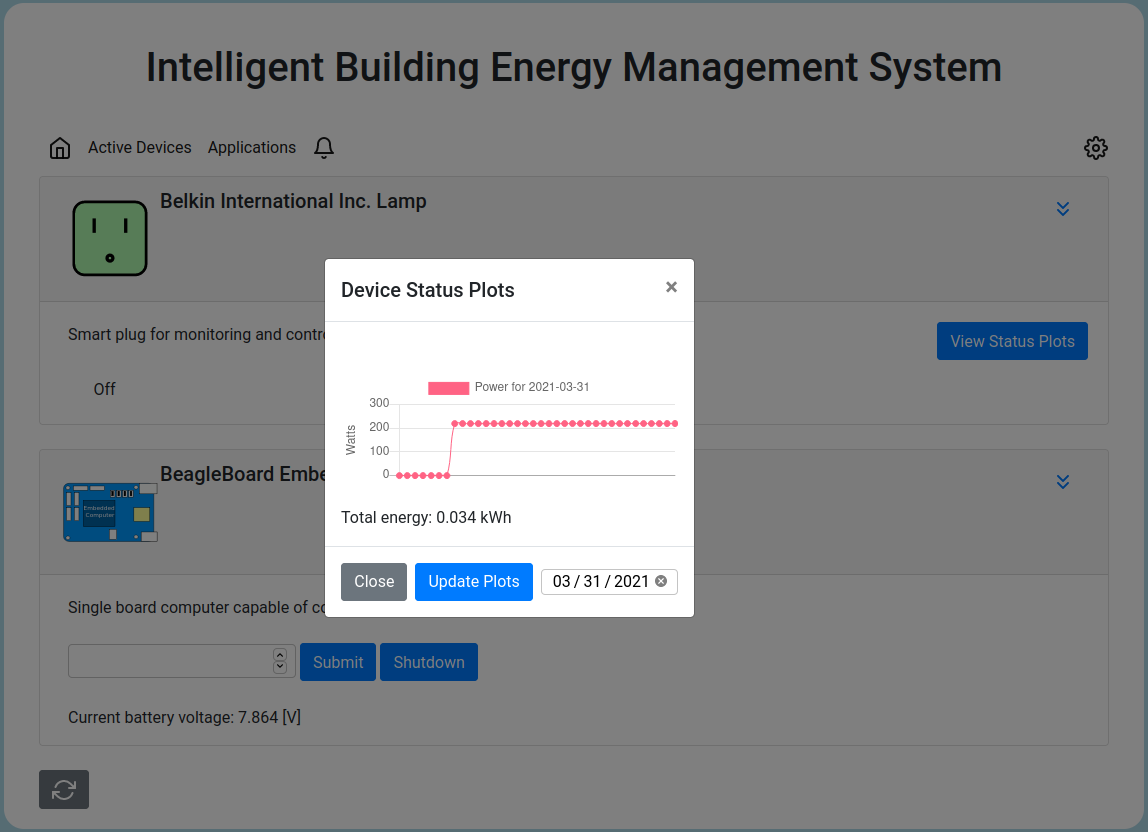
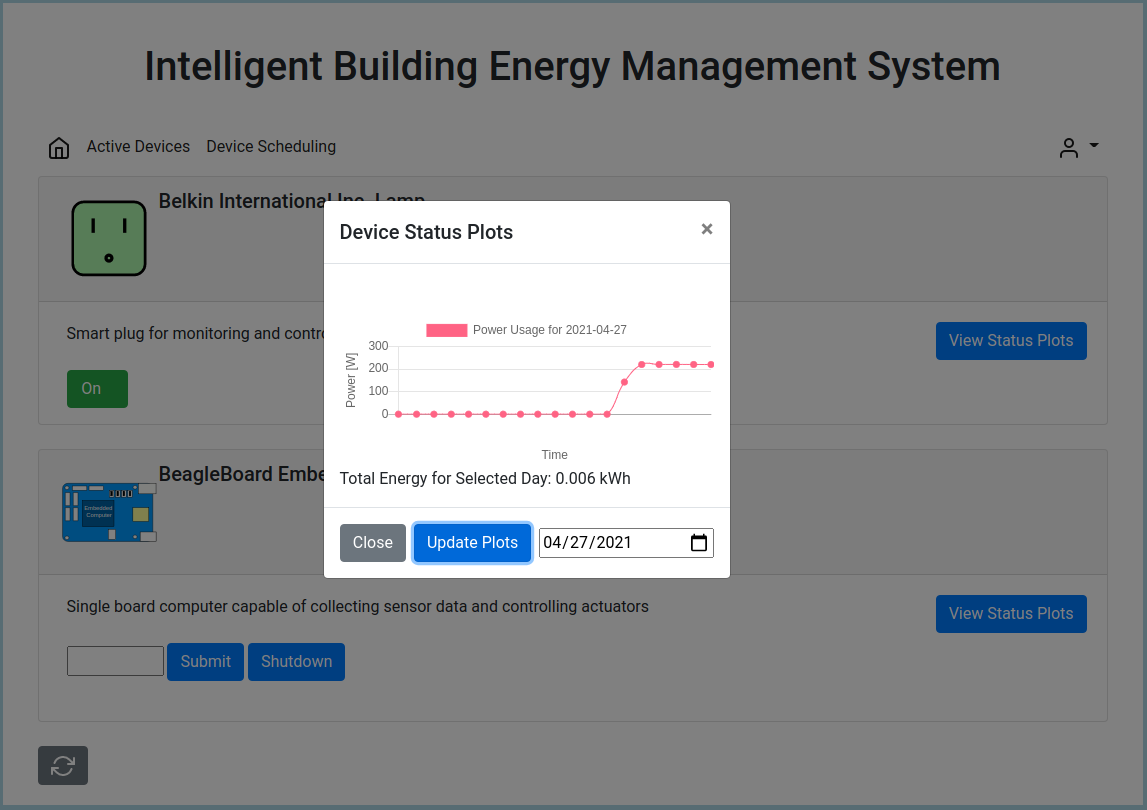
Added files for presentation

diff --git a/finalReportPres.tex b/finalReportPres.tex
@@ -268,19 +268,19 @@ Advisor: Dr. Suruz Miah}
     \end{figure}
 \end{frame}
 
-\begin{frame}{Agent and Web Server Communication}{}
-    \begin{figure}
-        \centering
-        \includegraphics[scale=0.5]{figs/pubSubAgents.pdf}
-        \caption{Publish Subscribe Model}
-        \label{fig:pubSubModel}
-    \end{figure}
-    \begin{itemize}
-        \item Agents and web server use the ZeroMQ
-        messaging library
-        \item Python wrapper used
-    \end{itemize}
-\end{frame}
+% \begin{frame}{Agent and Web Server Communication}{}
+%     \begin{figure}
+%         \centering
+%         \includegraphics[scale=0.5]{figs/pubSubAgents.pdf}
+%         \caption{Publish Subscribe Model}
+%         \label{fig:pubSubModel}
+%     \end{figure}
+%     \begin{itemize}
+%         \item Agents and web server use the ZeroMQ
+%         messaging library
+%         \item Python wrapper used
+%     \end{itemize}
+% \end{frame}
 
 \section{Hardware}
 % \section{Embedded/Robotics Computer}
@@ -513,7 +513,7 @@ Advisor: Dr. Suruz Miah}
         \column{0.45\textwidth}
         \begin{block}{}
           \begin{itemize}
-            \item Clicking on "Applications" on the nav bar loads the weekly scheduling feature
+            \item Clicking on "Device Scheduling" on the nav bar loads the weekly scheduling feature
             \item User can input whatever times they want with devices to be in a specified state (on/off for WeMo plug and duty cycle for the embedded computer)
         \end{itemize}
         \end{block}
